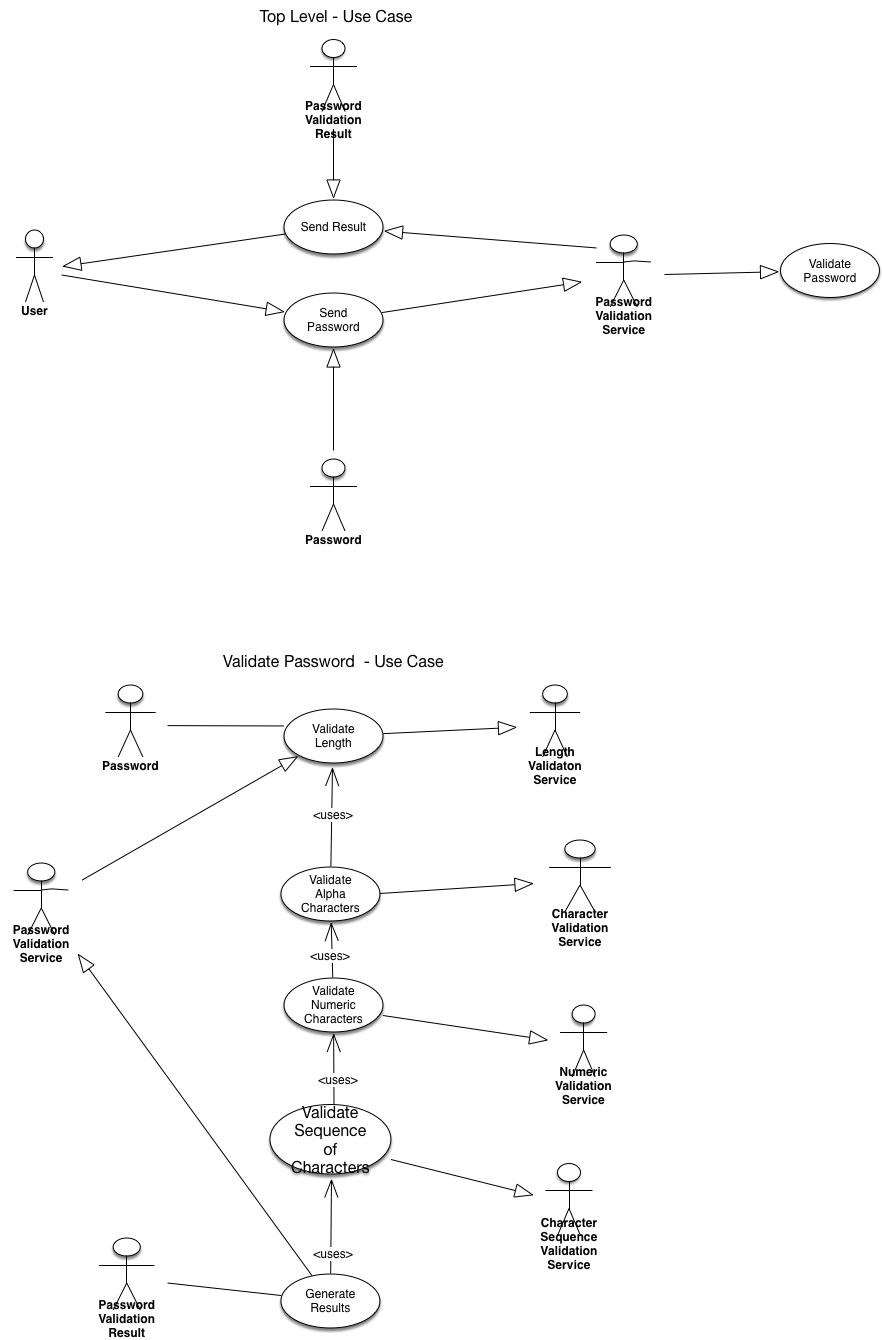
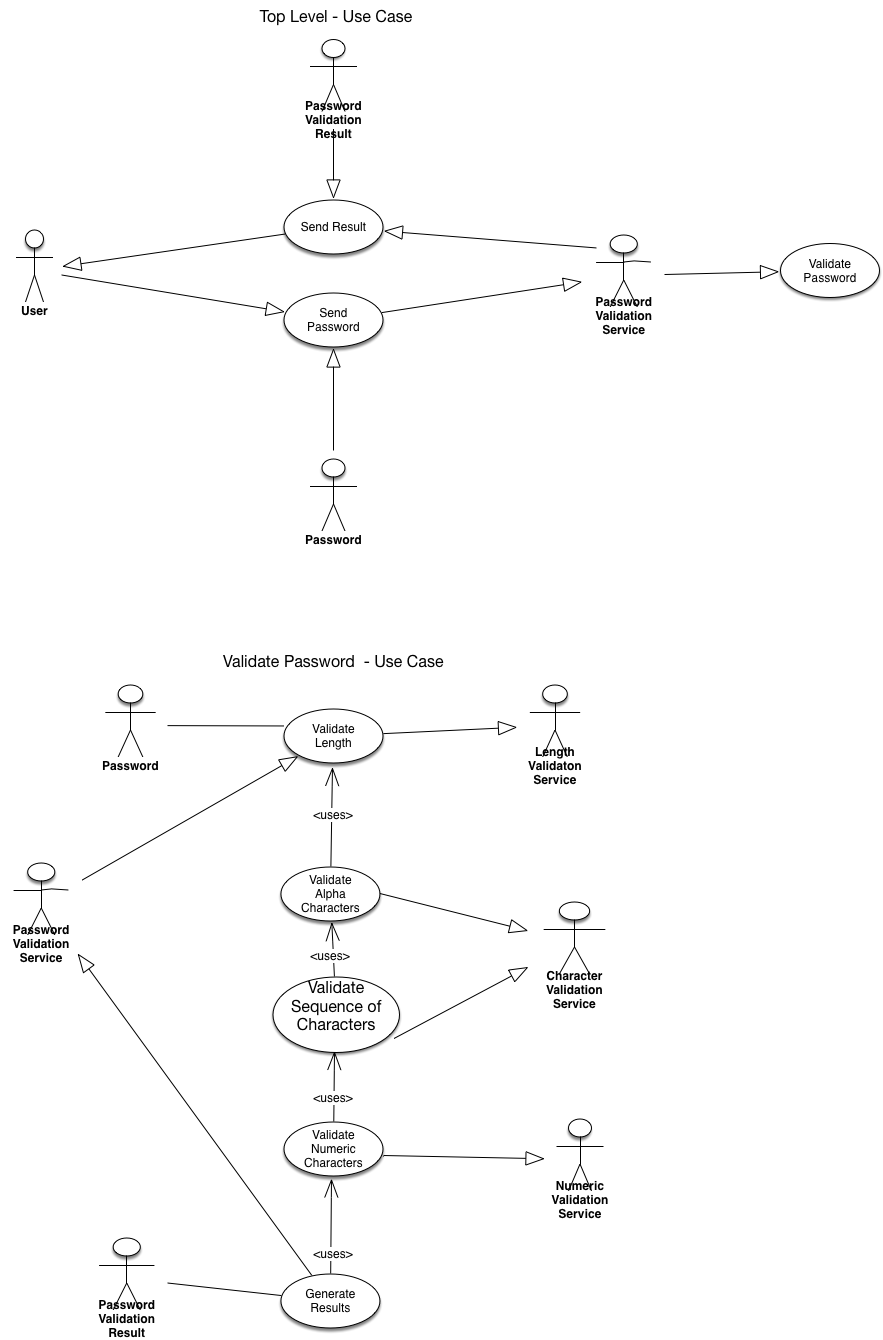
update model and imple validation result

Changed region(s): [[0.581, 0.6119, 0.7033, 0.9485], [0.3058, 0.6731, 0.4587, 0.8873]]

diff --git a/src/main/java/com/whitaker/service/PasswordValidationService.java b/src/main/java/com/whitaker/service/PasswordValidationService.java
@@ -1,0 +1,107 @@
+/**
+ * 
+ */
+package com.whitaker.service;
+
+import com.whitaker.models.IPassword;
+import com.whitaker.models.IPasswordValidationResult;
+import com.whitaker.models.PasswordValidationError;
+
+/**
+ * @author macadmin
+ *
+ */
+public class PasswordValidationService implements IPasswordValidationService, IPassword {
+	
+	private IPassword password;
+	private ILengthValidationService lenghService;
+	private ICharacterValidationService characterService;
+	private INumericValidationService numericService;
+	
+
+	/**
+	 * 
+	 */
+	public PasswordValidationService( final IPassword password,
+			final ILengthValidationService lengthservice,
+			final ICharacterValidationService characterservice,
+			final INumericValidationService numericservice) {
+		super();
+		this.password = password;
+		this.lenghService = lengthservice;
+		this.characterService = characterservice;
+		this.numericService = numericservice;
+	}
+
+	/* (non-Javadoc)
+	 * @see com.whitaker.models.IPassword#getPasswordText()
+	 */
+	@Override
+	public String getPasswordText() {
+		// TODO Auto-generated method stub
+		return null;
+	}
+
+	/* (non-Javadoc)
+	 * @see com.whitaker.models.IPassword#setPasswordText(java.lang.String)
+	 */
+	@Override
+	public void setPasswordText(String password) {
+		// TODO Auto-generated method stub
+
+	}
+
+	/* (non-Javadoc)
+	 * @see com.whitaker.service.IPasswordValidationService#validate(com.whitaker.models.IPassword)
+	 */
+	@Override
+	public IPasswordValidationResult validate(IPassword password) throws PasswordValidationError {
+		// TODO Auto-generated method stub
+		return null;
+	}
+
+	/* (non-Javadoc)
+	 * @see com.whitaker.service.IPasswordValidationService#validateLength(com.whitaker.models.IPassword)
+	 */
+	@Override
+	public IPasswordValidationResult validateLength(IPassword password) throws PasswordValidationError {
+		// TODO Auto-generated method stub
+		return null;
+	}
+
+	/* (non-Javadoc)
+	 * @see com.whitaker.service.IPasswordValidationService#validateAlphaCharacters(com.whitaker.models.IPassword)
+	 */
+	@Override
+	public IPasswordValidationResult validateAlphaCharacters(IPassword password) throws PasswordValidationError {
+		// TODO Auto-generated method stub
+		return null;
+	}
+
+	/* (non-Javadoc)
+	 * @see com.whitaker.service.IPasswordValidationService#validateNumericCharacters(com.whitaker.models.IPassword)
+	 */
+	@Override
+	public IPasswordValidationResult validateNumericCharacters(IPassword password) throws PasswordValidationError {
+		// TODO Auto-generated method stub
+		return null;
+	}
+
+	/* (non-Javadoc)
+	 * @see com.whitaker.service.IPasswordValidationService#validateSequenceOfCharacters(com.whitaker.models.IPassword)
+	 */
+	@Override
+	public IPasswordValidationResult validateSequenceOfCharacters(IPassword password) throws PasswordValidationError {
+		// TODO Auto-generated method stub
+		return null;
+	}
+
+	/**
+	 * @param args
+	 */
+	public static void main(String[] args) {
+		// TODO Auto-generated method stub
+
+	}
+
+}

diff --git a/src/main/java/com/whitaker/models/PasswordValidationResult.java b/src/main/java/com/whitaker/models/PasswordValidationResult.java
@@ -1,5 +1,7 @@
 package com.whitaker.models;
 
+import java.util.ArrayList;
+
 public class PasswordValidationResult implements IPasswordValidationResult {
 	
 	/**
@@ -7,12 +9,8 @@ public class PasswordValidationResult implements IPasswordValidationResult {
 	 */
 	IPassword password;
 	
-	PasswordErrorType passwordErrorType;
+	ArrayList<PasswordErrorType> passwordErrorTypes;
 	
-	
-	public PasswordValidationResult() {
-		// TODO Auto-generated constructor stub
-	}
 	
 	/**
 	 * 
@@ -21,6 +19,7 @@ public class PasswordValidationResult implements IPasswordValidationResult {
 	public PasswordValidationResult( IPassword password) {
 		super();
 		this.password = password;
+		this.passwordErrorTypes = new ArrayList<PasswordErrorType>();
 	}
 
 	/**
@@ -40,16 +39,36 @@ public class PasswordValidationResult implements IPasswordValidationResult {
 	/**
 	 * @return the passwordErrorType
 	 */
-	public PasswordErrorType getPasswordErrorType() {
-		return passwordErrorType;
+	public ArrayList<PasswordErrorType> getPasswordErrorTypes() {
+		return passwordErrorTypes;
 	}
 
 	/**
 	 * @param passwordErrorType the passwordErrorType to set
 	 */
-	public void setPasswordErrorType(PasswordErrorType passwordErrorType) {
-		this.passwordErrorType = passwordErrorType;
+	public void setPasswordErrorTypes(ArrayList<PasswordErrorType> passwordErrorTypes) {
+		this.passwordErrorTypes = passwordErrorTypes;
 	}
+
+	/* (non-Javadoc)
+	 * @see com.whitaker.models.IPasswordValidationResult#addPasswordErrorType(com.whitaker.models.PasswordErrorType)
+	 */
+	@Override
+	public boolean addPasswordErrorType(PasswordErrorType errortype) {
+		return this.passwordErrorTypes.add(errortype);		
+	}
+
+	/* (non-Javadoc)
+	 * @see com.whitaker.models.IPasswordValidationResult#removePasswordErrorType(com.whitaker.models.PasswordErrorType)
+	 */
+	@Override
+	public boolean removePasswordErrorType(PasswordErrorType errortype) {
+		return this.passwordErrorTypes.remove(errortype);
+		
+	}
+	
+	
+	
 	
 	
 	

diff --git a/src/main/java/com/whitaker/models/IPasswordValidationResult.java b/src/main/java/com/whitaker/models/IPasswordValidationResult.java
@@ -1,7 +1,7 @@
 package com.whitaker.models;
 
 import java.io.Serializable;
-
+import java.util.ArrayList;
 
 /**
  * @author Darnell Whitaker
@@ -13,8 +13,12 @@ public interface IPasswordValidationResult extends Serializable {
 	
 	public void setPassword(IPassword password);
 	
-	public PasswordErrorType getPasswordErrorType();
+	public ArrayList<PasswordErrorType> getPasswordErrorTypes();
 	
-	public void setPasswordErrorType( PasswordErrorType errortype);
+	public void setPasswordErrorTypes( ArrayList<PasswordErrorType> errortypes);
+	
+	public boolean addPasswordErrorType ( PasswordErrorType errortype);
+	
+	public boolean removePasswordErrorType ( PasswordErrorType errortype);
 
 }
